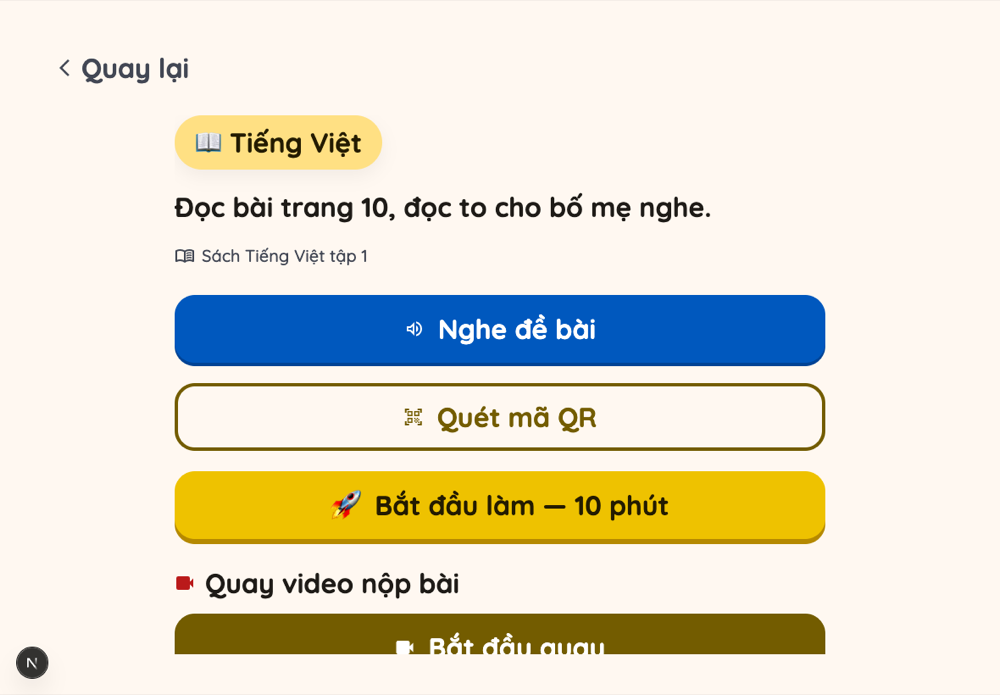
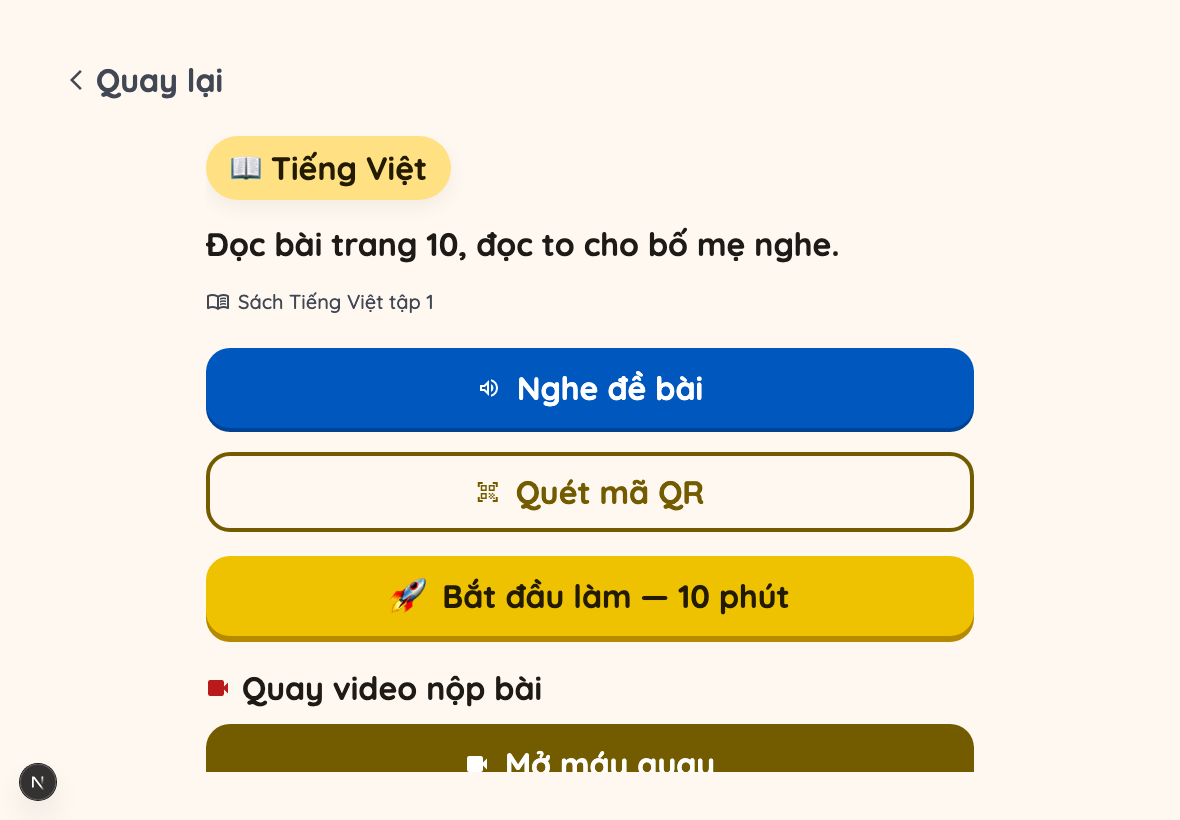
feat: mở máy quay trước cho con nhìn thấy mình rồi mới bấm bắt đầu ghi
Trước đây bấm một nút là vừa mở camera vừa ghi ngay, con chưa kịp nhìn
mình trong khung. Tách thành hai nhịp:

- Thêm giai đoạn 'ready' giữa 'idle' và 'recording': nút ở màn chờ đổi
  nhãn thành "Mở máy quay", chỉ mở luồng camera và dừng ở đây — khung
  hình trực tiếp hiện lên, chưa tạo MediaRecorder, đồng hồ chưa chạy.
- Nút "Bắt đầu quay" nằm trong khung, ngay dưới khung hình, cạnh nút
  "Thoát" (tắt sạch luồng, về màn chờ). Đồng hồ và mốc 10 phút vẫn tính
  từ lúc bắt đầu GHI.
- Khi vào 'ready' thì tự cuộn khung hình vào giữa màn. Cuộn hai lần —
  lần đầu ở useEffect gán srcObject, lần sau ở onLoadedMetadata vì thẻ
  <video> chỉ giãn ra theo tỉ lệ 4:3 sau khi biết kích thước luồng.
- Cả hai giai đoạn dùng CHUNG một khối <video> để React không tháo thẻ
  ra gắn lại (mất luồng, khung đen).
- MediaRecorder nổ ở constructor hoặc ở start() nay đưa giao diện về
  'idle' và tắt luồng, không kẹt lại ở 'ready' với camera còn sáng.

Ảnh đối chiếu 1180×820 và 1440×900 trong stitch-macbook/kiem-tra/.

Closes #20

Changed region(s): [[0.434, 0.9065, 0.589, 0.9669]]

diff --git a/app/con/[childId]/bai/[id]/QuayVideo.tsx b/app/con/[childId]/bai/[id]/QuayVideo.tsx
@@ -29,7 +29,12 @@ import {
  * cai kia la tep phinh qua tran MAX_NOP_VIDEO_BYTES.
  */
 
-type Phase = 'idle' | 'recording' | 'preview' | 'sending';
+/**
+ * 'ready' = camera da mo, khung hinh truc tiep da hien nhung CHUA ghi gi: con
+ * nhin thay minh, chinh lai cho ngoi, roi moi bam "Bắt đầu quay". Dong ho va
+ * moc MAX_QUAY_GIAY chi chay tu luc sang 'recording'.
+ */
+type Phase = 'idle' | 'ready' | 'recording' | 'preview' | 'sending';
 
 /** mp4 truoc (Safari chi ghi duoc mp4), webm sau (Chrome/Firefox). */
 const MIME_UU_TIEN = [
@@ -129,16 +134,30 @@ export default function QuayVideo({
   }, []);
 
   /* Gan luong camera vao khung xem truoc SAU khi React da ve the <video> —
-     gan ngay trong start() thi thua: luc do the con chua ton tai (state vua
-     doi, chua commit) va khung hinh se den thui. */
+     gan ngay trong moCamera() thi thua: luc do the con chua ton tai (state vua
+     doi, chua commit) va khung hinh se den thui.
+     Cung o day luon, khi vua sang 'ready': cuon khung hinh vao giua man. Tren
+     iPad ngang khung nam duoi de bai nen con khong thay minh neu khong cuon. */
   useEffect(() => {
-    if (phase === 'recording' && liveRef.current && streamRef.current) {
+    if ((phase === 'ready' || phase === 'recording') && liveRef.current && streamRef.current) {
       liveRef.current.srcObject = streamRef.current;
       liveRef.current.play().catch(() => {}); // autoPlay+muted thuong tu chay, day chi la day them
+      if (phase === 'ready') cuonToiKhung();
     }
   }, [phase]);
 
-  async function start() {
+  /* Cuon lan hai o onLoadedMetadata la CAN, khong phai cho chac: luc effect
+     tren chay, the <video> chua biet kich thuoc luong nen con thap; cuon xong
+     no moi gian ra theo ti le 4:3 va day chinh no xuong duoi khung nhin. */
+  function cuonToiKhung() {
+    liveRef.current?.scrollIntoView({ behavior: 'smooth', block: 'center' });
+  }
+
+  /**
+   * Nhip 1: chi MO may quay roi dung o 'ready'. Chua tao MediaRecorder, chua
+   * chay dong ho — con nhin thay minh trong khung truoc da.
+   */
+  async function moCamera() {
     // Con bam hai lan trong luc bang xin quyen con mo -> hai MediaStream, cai
     // sau de len streamRef va cai truoc khong ai tat duoc nua (camera cu sang).
     if (startingRef.current || phase !== 'idle') return;
@@ -175,6 +194,25 @@ export default function QuayVideo({
     setStarting(false);
 
     streamRef.current = stream;
+    setElapsed(0);
+    elapsedRef.current = 0;
+    setPhase('ready');   // useEffect [phase] o tren gan srcObject + cuon toi khung
+  }
+
+  /** Thoat o giai doan 'ready': tat sach luong, ve man cho. */
+  function dongCamera() {
+    stopStream();
+    setPhase('idle');
+  }
+
+  /**
+   * Nhip 2: con bam "Bắt đầu quay" trong khung — gio moi tao MediaRecorder,
+   * ghi that va chay dong ho tu 0:00.
+   */
+  function batDauGhi() {
+    const stream = streamRef.current;
+    if (phase !== 'ready' || !stream) return;
+
     chunksRef.current = [];
     discardRef.current = false;
     stoppingRef.current = false;
@@ -188,7 +226,9 @@ export default function QuayVideo({
         audioBitsPerSecond: QUAY_AUDIO_BPS,
       });
     } catch {
+      // Hong o day thi KHONG duoc ket lai o 'ready' voi luong con song
       stopStream();
+      setPhase('idle');
       setError('Máy này chưa quay trong trang được. Con dùng nút "Quay bằng máy ảnh" nhé.');
       return;
     }
@@ -219,12 +259,14 @@ export default function QuayVideo({
     try {
       recorder.start();
     } catch {
+      recorderRef.current = null;
       stopStream();
+      setPhase('idle');
       setError('Máy này chưa quay trong trang được. Con dùng nút "Quay bằng máy ảnh" nhé.');
       return;
     }
 
-    setPhase('recording');   // useEffect [phase] o tren se gan srcObject sau khi ve
+    setPhase('recording');
 
     timerRef.current = setInterval(() => {
       elapsedRef.current += 1;
@@ -300,8 +342,10 @@ export default function QuayVideo({
         Quay video nộp bài
       </p>
 
-      {/* ---- Dang quay: khung hinh truc tiep + dong ho + nut dung ---- */}
-      {phase === 'recording' && (
+      {/* ---- Da mo may quay: MOT khoi khung hinh dung chung cho 'ready' va
+           'recording'. Khong duoc tach thanh hai khoi <video> rieng: React se
+           thao the ra gan lai khi doi phase, srcObject mat va khung den thui. */}
+      {(phase === 'ready' || phase === 'recording') && (
         <div className="flex flex-col gap-4">
           <div className="relative">
             <video
@@ -309,31 +353,55 @@ export default function QuayVideo({
               muted
               playsInline
               autoPlay
+              onLoadedMetadata={() => { if (phase === 'ready') cuonToiKhung(); }}
               className="w-full max-h-[50vh] rounded-3xl soft-shadow bg-black -scale-x-100"
             />
-            <span className="absolute top-4 left-4 flex items-center gap-2 bg-black/60 text-white
-                             rounded-full px-4 py-2 text-k-body-sm font-bold">
-              <span className="w-3 h-3 rounded-full bg-error animate-pulse" />
-              {mmss(elapsed)} / {mmss(MAX_QUAY_GIAY)}
-            </span>
+            {phase === 'recording' && (
+              <span className="absolute top-4 left-4 flex items-center gap-2 bg-black/60 text-white
+                               rounded-full px-4 py-2 text-k-body-sm font-bold">
+                <span className="w-3 h-3 rounded-full bg-error animate-pulse" />
+                {mmss(elapsed)} / {mmss(MAX_QUAY_GIAY)}
+              </span>
+            )}
           </div>
-          <div className="flex gap-3">
-            <button
-              onClick={() => stopRecording(false)}
-              className="btn-3d-primary bg-error text-white rounded-3xl flex items-center
-                         justify-center gap-3 px-6 h-20 flex-[2]"
-            >
-              <span className="material-symbols-outlined text-4xl icon-fill">stop_circle</span>
-              <span className="text-k-headline">Quay xong</span>
-            </button>
-            <button
-              onClick={() => stopRecording(true)}
-              className="rounded-3xl border-4 border-outline-variant text-on-surface-variant
-                         flex items-center justify-center px-6 h-20 flex-1 text-k-body"
-            >
-              Huỷ
-            </button>
-          </div>
+
+          {phase === 'ready' ? (
+            <div className="flex gap-3">
+              <button
+                onClick={batDauGhi}
+                className="btn-3d-primary bg-error text-white rounded-3xl flex items-center
+                           justify-center gap-3 px-6 h-20 flex-[2]"
+              >
+                <span className="material-symbols-outlined text-4xl icon-fill">radio_button_checked</span>
+                <span className="text-k-headline">Bắt đầu quay</span>
+              </button>
+              <button
+                onClick={dongCamera}
+                className="rounded-3xl border-4 border-outline-variant text-on-surface-variant
+                           flex items-center justify-center px-6 h-20 flex-1 text-k-body"
+              >
+                Thoát
+              </button>
+            </div>
+          ) : (
+            <div className="flex gap-3">
+              <button
+                onClick={() => stopRecording(false)}
+                className="btn-3d-primary bg-error text-white rounded-3xl flex items-center
+                           justify-center gap-3 px-6 h-20 flex-[2]"
+              >
+                <span className="material-symbols-outlined text-4xl icon-fill">stop_circle</span>
+                <span className="text-k-headline">Quay xong</span>
+              </button>
+              <button
+                onClick={() => stopRecording(true)}
+                className="rounded-3xl border-4 border-outline-variant text-on-surface-variant
+                           flex items-center justify-center px-6 h-20 flex-1 text-k-body"
+              >
+                Huỷ
+              </button>
+            </div>
+          )}
         </div>
       )}
 
@@ -406,14 +474,14 @@ export default function QuayVideo({
 
           {canRecord && (
             <button
-              onClick={start}
+              onClick={moCamera}
               disabled={starting}
               className="btn-3d-primary bg-tertiary text-on-tertiary rounded-3xl flex items-center
                          justify-center gap-4 px-6 h-20 w-full disabled:opacity-60"
             >
               <span className="material-symbols-outlined text-4xl icon-fill">videocam</span>
               <span className="text-k-headline">
-                {starting ? 'Đang mở máy quay…' : existingUrl ? 'Quay video khác' : 'Bắt đầu quay'}
+                {starting ? 'Đang mở máy quay…' : existingUrl ? 'Quay video khác' : 'Mở máy quay'}
               </span>
             </button>
           )}
